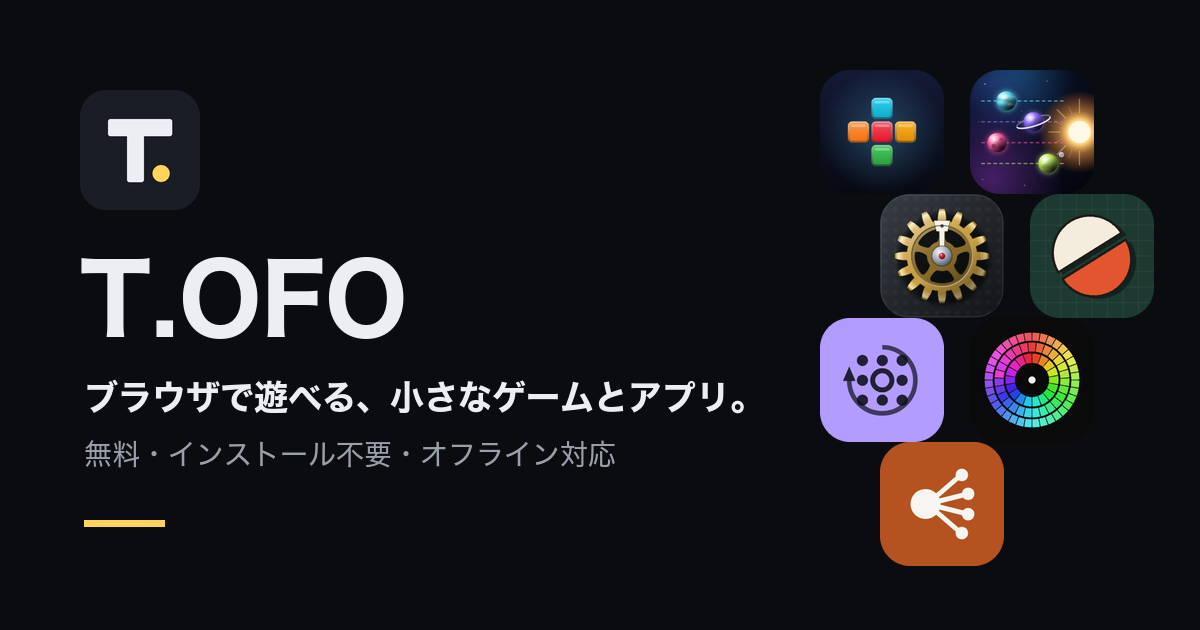
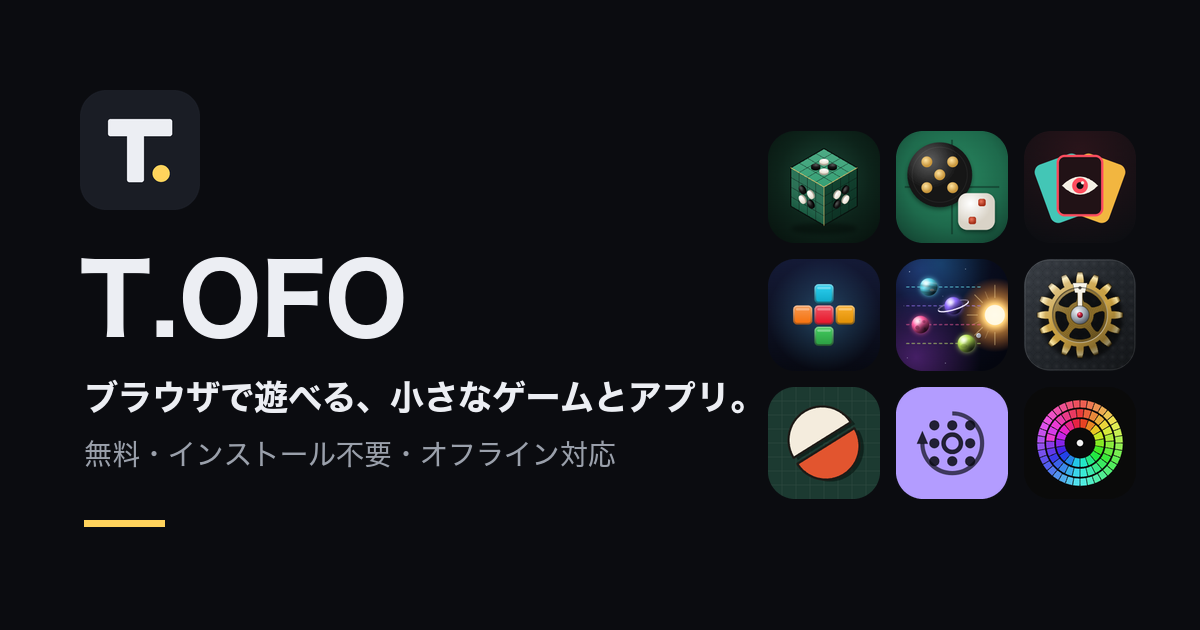
インサイダー・点数オセロ・キューブ・オセロを一覧に追加

Changed region(s): [[0.6167, 0.0905, 0.9867, 0.9048]]

diff --git a/apps.js b/apps.js
@@ -13,6 +13,36 @@
 
 window.TOFO_APPS = [
   {
+    id: 'cube-othello',
+    name: 'キューブ・オセロ',
+    title: '立方体の6面で遊ぶオセロ',
+    desc: '立方体の 6 つの面すべてが盤面のオセロ。縦横の列は辺を越えて隣の面へつながる。CPU 対戦・ふたり対戦。',
+    category: 'game',
+    tags: ['ボードゲーム', '3D'],
+    icon: '/cube-othello/icons/icon-192.png',
+    color: '#36a075',
+  },
+  {
+    id: 'score-othello',
+    name: '点数オセロ',
+    title: '石に点数がついたオセロ',
+    desc: '石の一つひとつに点数がついたオセロ。石の数ではなく点の合計で勝負する。CPU 対戦・ふたり対戦。',
+    category: 'game',
+    tags: ['ボードゲーム', 'オセロ'],
+    icon: '/score-othello/icons/icon-192.png',
+    color: '#f2c66d',
+  },
+  {
+    id: 'insider',
+    name: 'インサイダー',
+    title: '1台で遊ぶ会話と推理',
+    desc: '1 台の端末を回して遊ぶ、4〜8 人のインサイダー・ゲーム。お題当てと裏切り者探しをアプリが進行する。',
+    category: 'game',
+    tags: ['パーティー', '推理'],
+    icon: '/insider/icons/icon-192.png',
+    color: '#ff4d5e',
+  },
+  {
     id: 'pentris',
     name: 'PENT!',
     title: 'ペントミノ落ち物パズル',

diff --git a/tools/make-icons.py b/tools/make-icons.py
@@ -50,20 +50,21 @@ with open(os.path.join(ROOT, 'apps.js'), encoding='utf-8') as f:
         line = line.strip()
         if line.startswith("icon: '"):
             icons.append(line.split("'")[1])
-x0, y0, cell = 820, 70, 150
+S, cell = 112, 128                      # 3×3 に並べる
+x0, y0 = 1200 - 64 - 3 * cell + (cell - S), (630 - 3 * cell + (cell - S)) // 2
 for i, path in enumerate(icons[:9]):
     try:
         raw = urllib.request.urlopen('https://sora3141.github.io' + path, timeout=10).read()
     except Exception as e:
         print('skip', path, e)
         continue
-    ic = Image.open(io.BytesIO(raw)).convert('RGBA').resize((124, 124), Image.LANCZOS)
-    m = Image.new('L', (124 * 4, 124 * 4), 0)
-    ImageDraw.Draw(m).rounded_rectangle((0, 0, 124 * 4 - 1, 124 * 4 - 1), radius=30 * 4, fill=255)
-    m = m.resize((124, 124), Image.LANCZOS)
-    alpha = Image.composite(ic.getchannel('A'), Image.new('L', (124, 124), 0), m)
+    ic = Image.open(io.BytesIO(raw)).convert('RGBA').resize((S, S), Image.LANCZOS)
+    m = Image.new('L', (S * 4, S * 4), 0)
+    ImageDraw.Draw(m).rounded_rectangle((0, 0, S * 4 - 1, S * 4 - 1), radius=27 * 4, fill=255)
+    m = m.resize((S, S), Image.LANCZOS)
+    alpha = Image.composite(ic.getchannel('A'), Image.new('L', (S, S), 0), m)
     ic.putalpha(alpha)
-    col, row = i % 2, i // 2
-    og.paste(ic, (x0 + col * cell + (row % 2) * 60, y0 + row * 124), ic)
+    col, row = i % 3, i // 3
+    og.paste(ic, (x0 + col * cell, y0 + row * cell), ic)
 save(og, 'og.png')
 print('ok')

diff --git a/RULES.md b/RULES.md
@@ -233,7 +233,7 @@ gh api -X POST repos/Sora3141/<id>/pages -f 'source[branch]=main' -f 'source[pat
 
 ## 既存アプリの対応状況（2026-09-24 時点）
 
-2026-09-24 に直したもの: 他アプリのキャッシュを消す SW（4 本）、`black-translucent`（5 本）、pentris / coord-maze のオフライン対応、全 7 本への T.OFO リンク。
+2026-09-24 に直したもの: 他アプリのキャッシュを消す SW（4 本）、`black-translucent`（5 本）、pentris / coord-maze のオフライン対応、全 7 本への T.OFO リンク、insider / score-othello / cube-othello の PWA 化と一覧への追加（この 3 本は RULES に沿って作り直したので残りなし）。
 
 残っている差分（急ぎではない。触るついでに直す）:
 
@@ -246,4 +246,3 @@ gh api -X POST repos/Sora3141/<id>/pages -f 'source[branch]=main' -f 'source[pat
 | hue-hunter | localStorage の読み書きに try/catch がない、不要な `ads.txt` が残っている |
 | core-image-english | 共有ボタンと iPhone 向けのインストール案内がない、OGP・description がない、`html` の背景が `theme-color` と違う（意図的） |
 | Half-Cut | README に T.OFO の表記がまだない |
-| insider / score-othello / cube-othello | PWA 化していない（manifest・アイコンなし）ため一覧に未掲載 |
